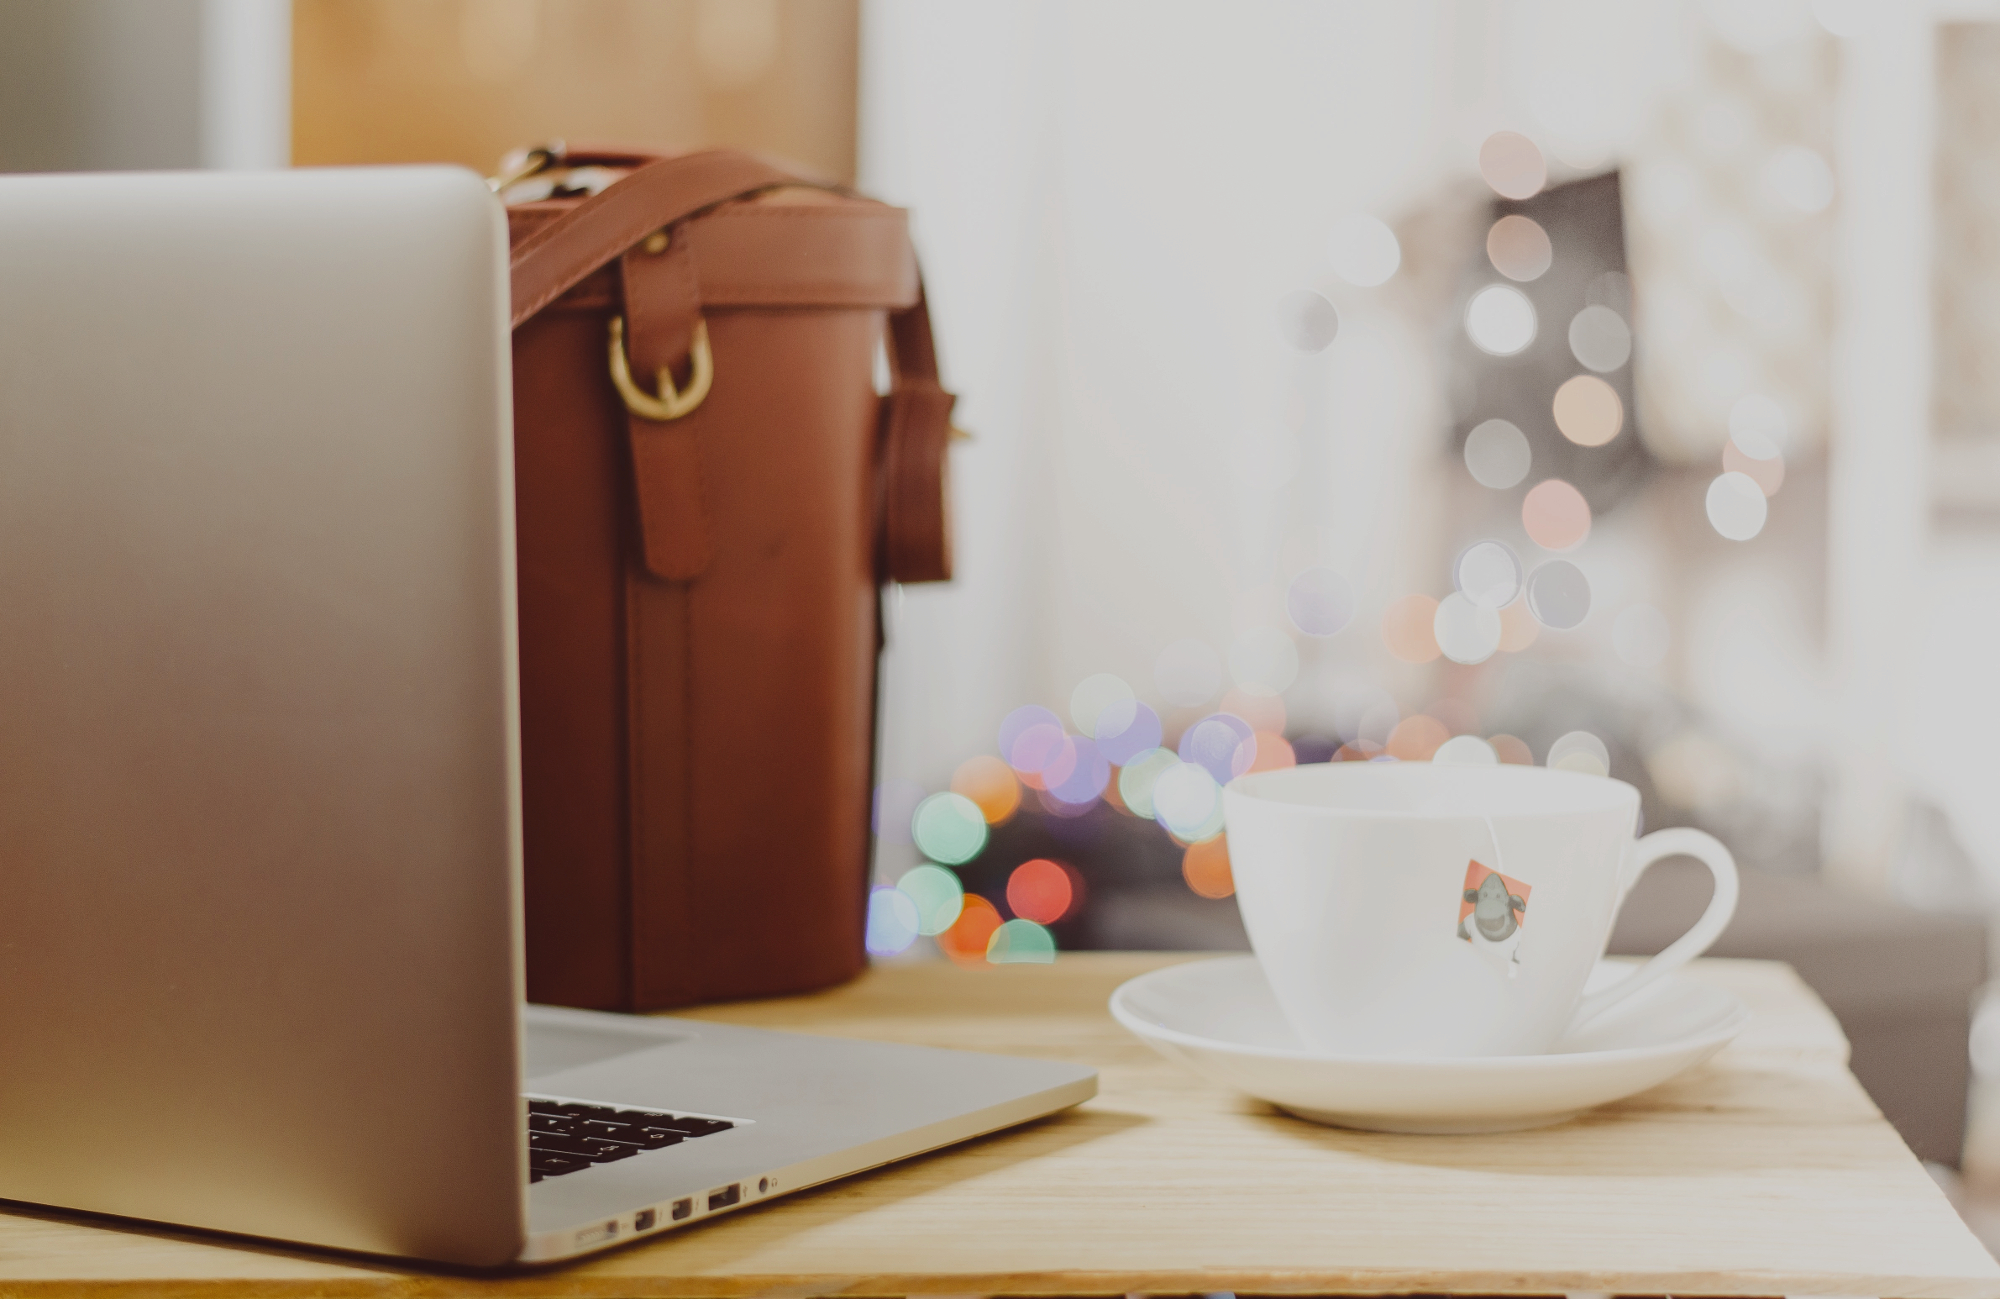
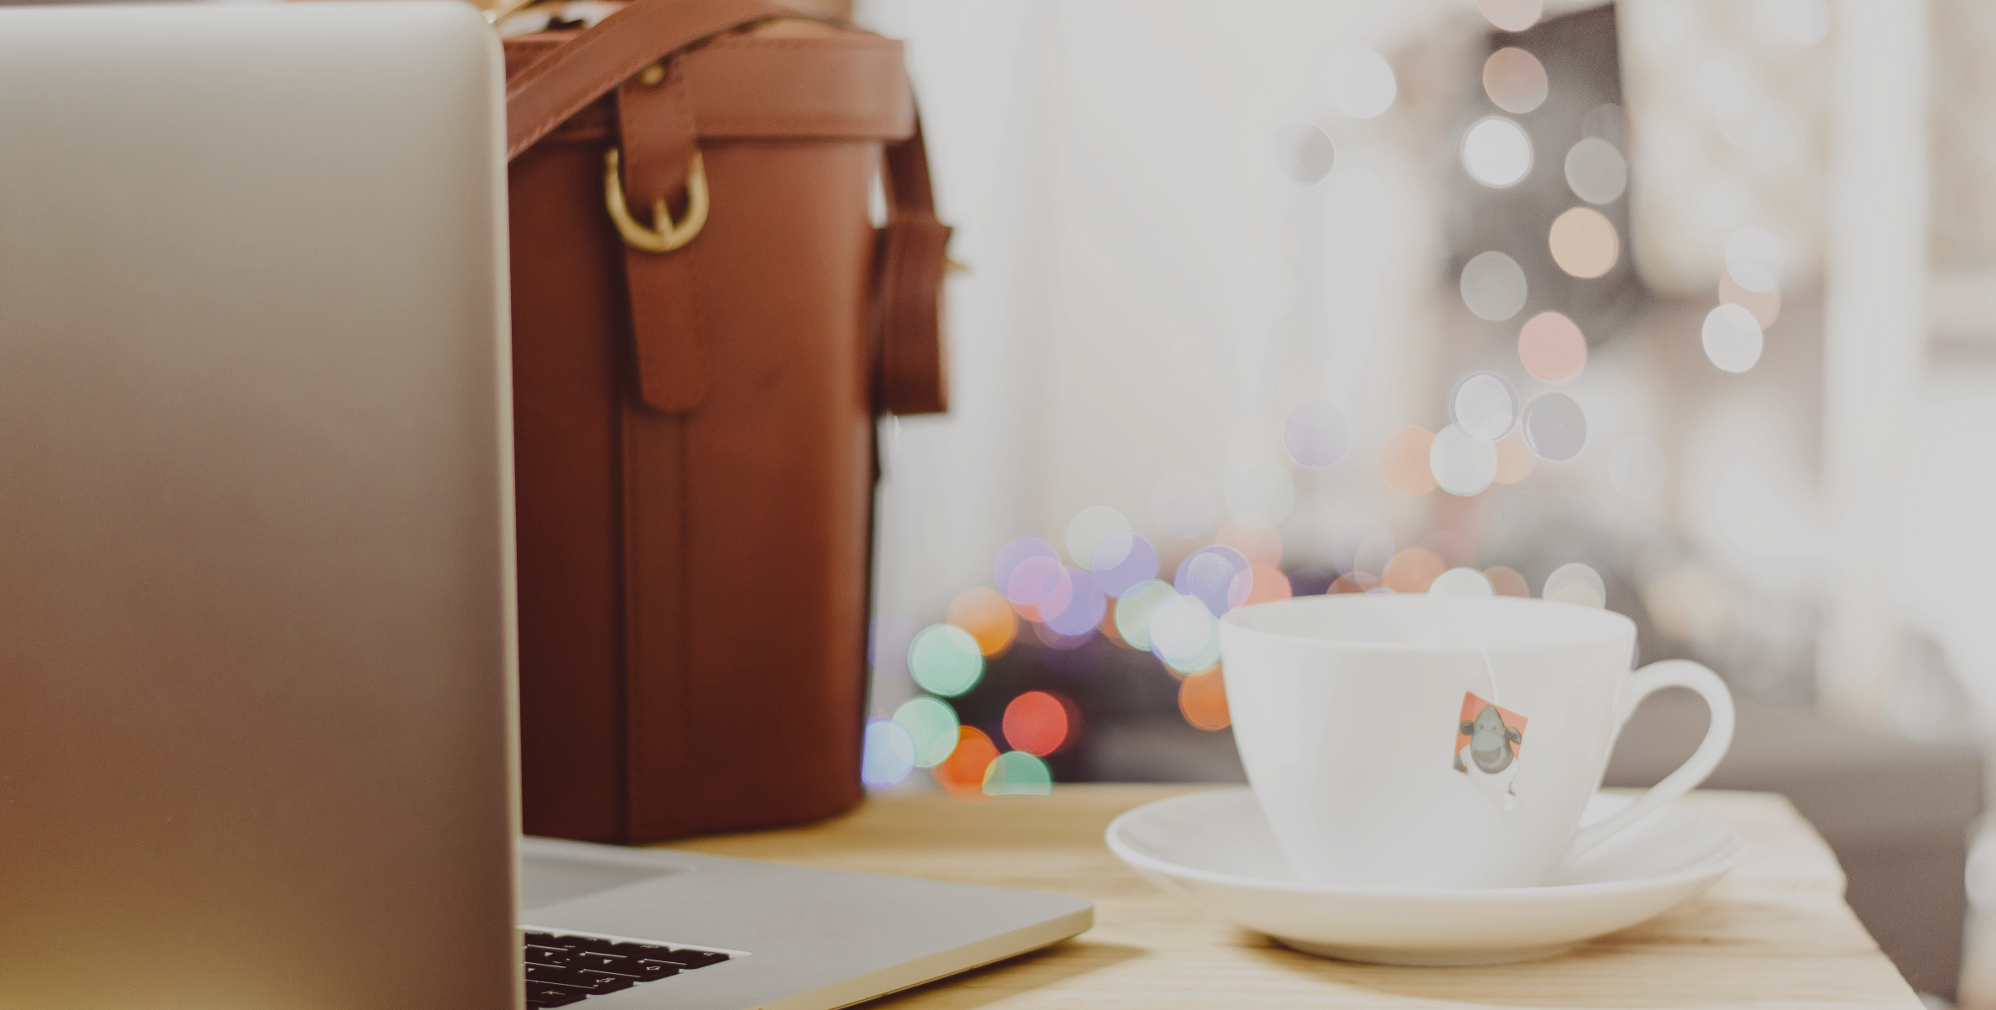
rough draft of advertising page

diff --git a/app/assets/stylesheets/modules/_landing.scss b/app/assets/stylesheets/modules/_landing.scss
@@ -1,11 +1,4 @@
-.landing-header {
-  color:$white;
-  margin: auto;
-  max-width:15em;
-  padding-top:4em;
-}
-
-.diagonal-header {
+.diagonal__header {
   background-size:cover;
   height:600px;
   margin-top:2px;
@@ -14,7 +7,7 @@
   width:100%;
 }
 
-#backshape {
+#diagonal-container {
   background-color: $blue;
   display:block;
   float:left;
@@ -24,19 +17,65 @@
   z-index:1;
   -ms-transform:skew(0deg,10deg); /* IE 9 */
   -webkit-transform:skew(0deg,5deg); /* Safari and Chrome */
+  
+  #diagonal {
+    display:block;
+    float:left;
+    margin: 5em 0;
+    padding:0 5%;
+    transform:skew(0deg,-5deg);
+    width:100%;
+    -ms-transform:skew(0deg,-10deg);
+    -webkit-transform:skew(0deg,-5deg); 
+  }
+}
+.diagonal__header--lead {
+  color:$white;
+  font-size: 3.5em;
+  margin: auto;
+  max-width:15em;
+  padding-top:2em;
 }
 
-#backshape .diagonal-wrapper {
-  display:block;
-  float:left;
-  margin: 5em 0;
-  padding:0 5%;
-  transform:skew(0deg,-5deg);
-  width:100%;
-  -ms-transform:skew(0deg,-10deg);
-  -webkit-transform:skew(0deg,-5deg); 
+.diagonal__header--body {
+  color:$white;
 }
 
-.diagonal-footer {
-  margin-top: 15em;
+.diagonal__footer--lead {
+  font-size: 3.5em;
+  text-align: center;
+}
+
+.diagonal__footer--body {
+  text-align: center;
+  max-width: 55em;
+  margin: auto;
+  padding: 0 2em;
+}
+
+.diagonal__adhead {
+  color: $white;
+  text-align: center;
+}
+
+.diagonal__adbox--l,
+.diagonal__adbox--r, {
+  @include span-columns(6);
+  color: $white;
+}
+
+.diagonal__adbox--l {
+  text-align: left;
+}
+
+.diagonal__adbox--r {
+  @include shift(6);
+  text-align: right;
+}
+
+.diagonal__footer {
+  margin-top: 80em;
+  @include media ($mobile) {
+    margin-top: 41em;
+  }
 }

diff --git a/app/assets/stylesheets/base/_buttons.scss b/app/assets/stylesheets/base/_buttons.scss
@@ -33,7 +33,6 @@
 
 #sign_up {
   background-color: $yellow;
-  color: $dark-gray;
   transition: background-color 0.3s ease-out;
   
   &:hover,
@@ -41,4 +40,17 @@
     background-color: darken($yellow, 10%);
     transition: background-color 0.3s ease-in;
   }
+}
+
+#bottom_sign_up {
+  background-color: $yellow;
+  font-size: 30px;
+  margin-bottom: 1em;
+  transition: background-color 0.3s ease-out;
+
+  &:hover,
+  &:focus {
+    background-color: darken($yellow, 10%);
+    transition: background-color 0.3s ease-in;
+  }  
 }
